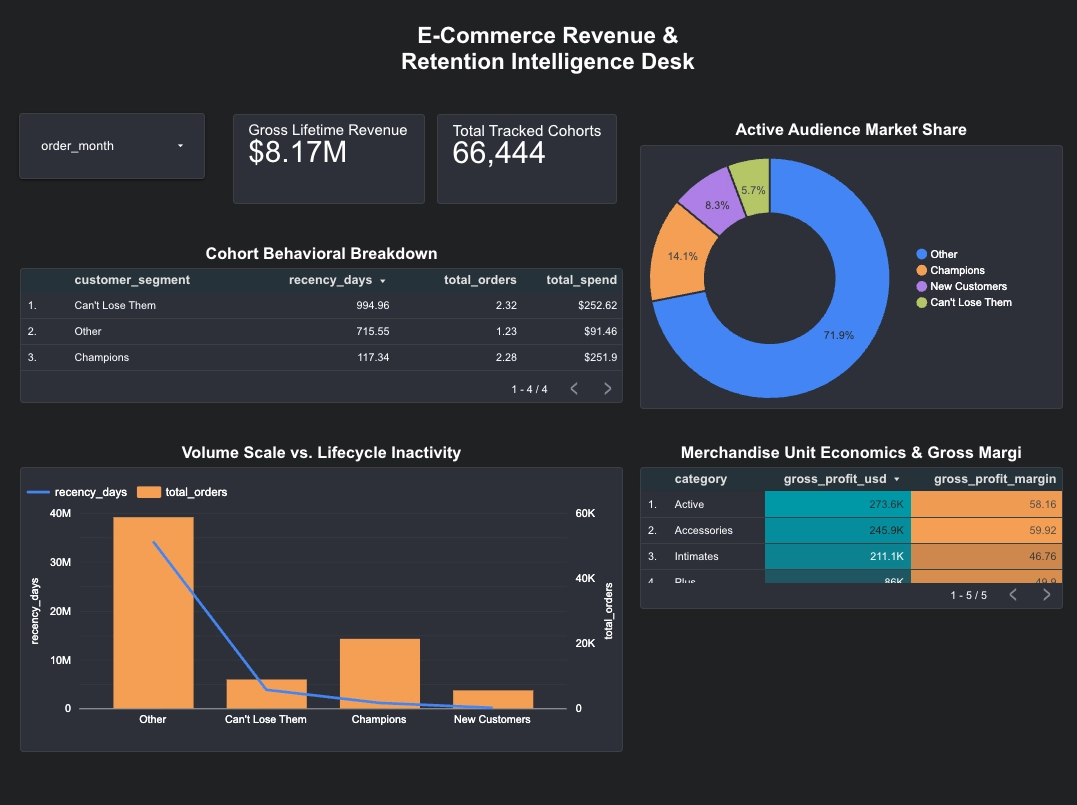
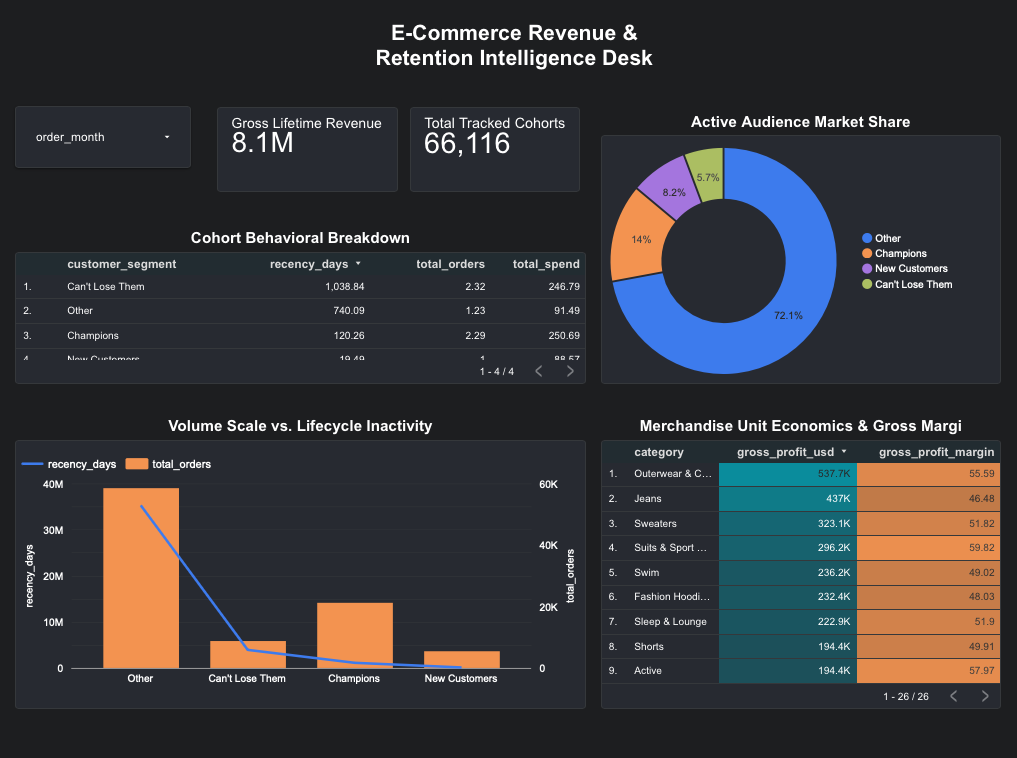
image and README is updated

diff --git a/README.md b/README.md
@@ -36,7 +36,7 @@ Heavy analytical logic is compiled once into permanent BigQuery **views**, so th
 
 ## Live Dashboard
 
-**[→ Open the live Looker Studio dashboard](https://datastudio.google.com/reporting/328cfb64-a1c7-4128-a08b-e13aedafdc89)**
+**[→ Open the live Looker Studio dashboard]https://datastudio.google.com/reporting/79cc0f9c-1af3-4801-842c-519ff7ee9c049)***
 
 A static preview is embedded above for anyone without dashboard access; the link gives the full interactive version (cross-filtering, date controls, drill-downs).
 
